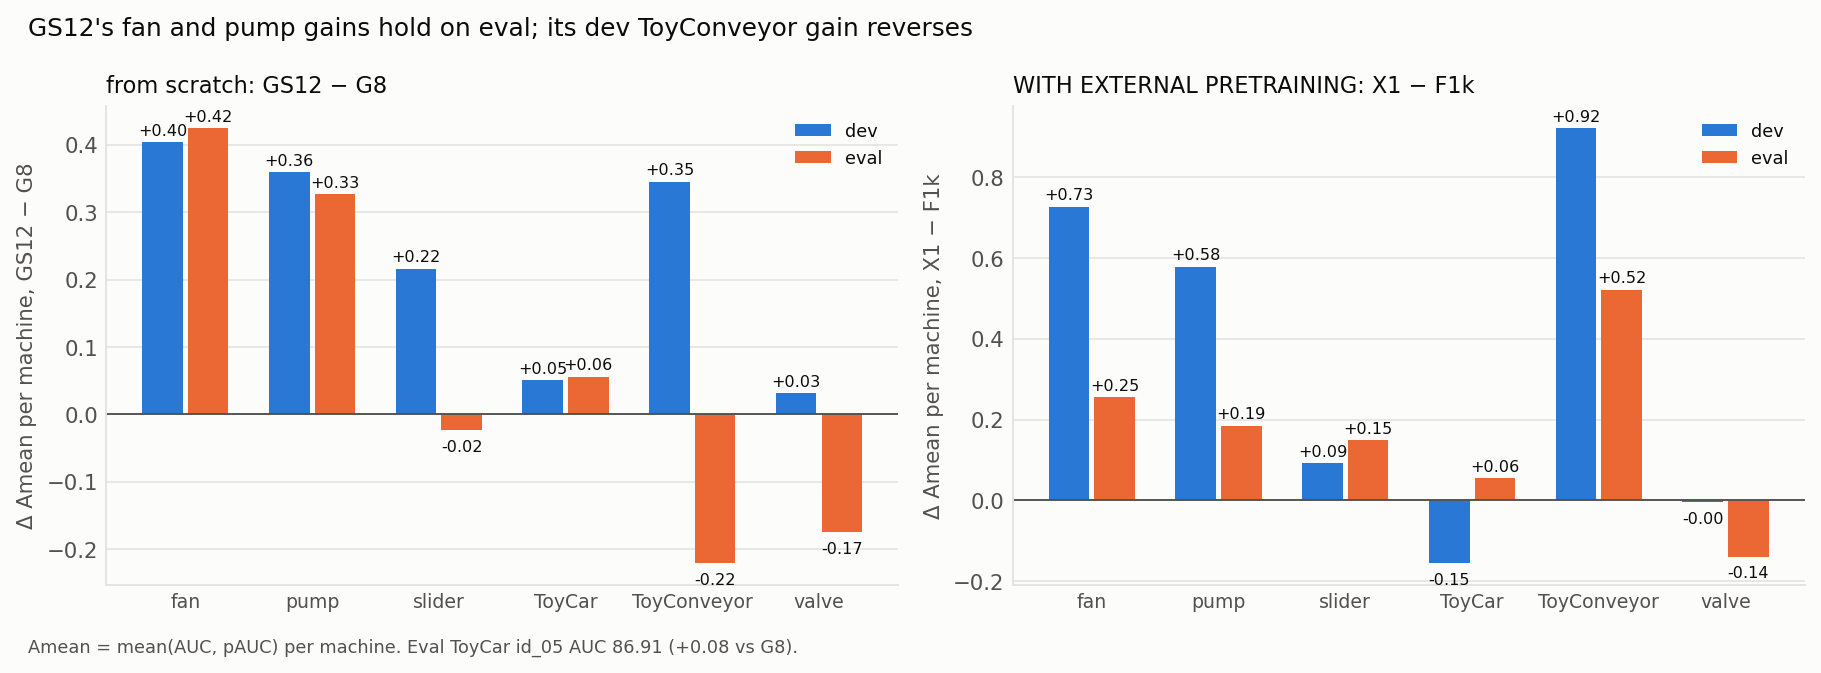
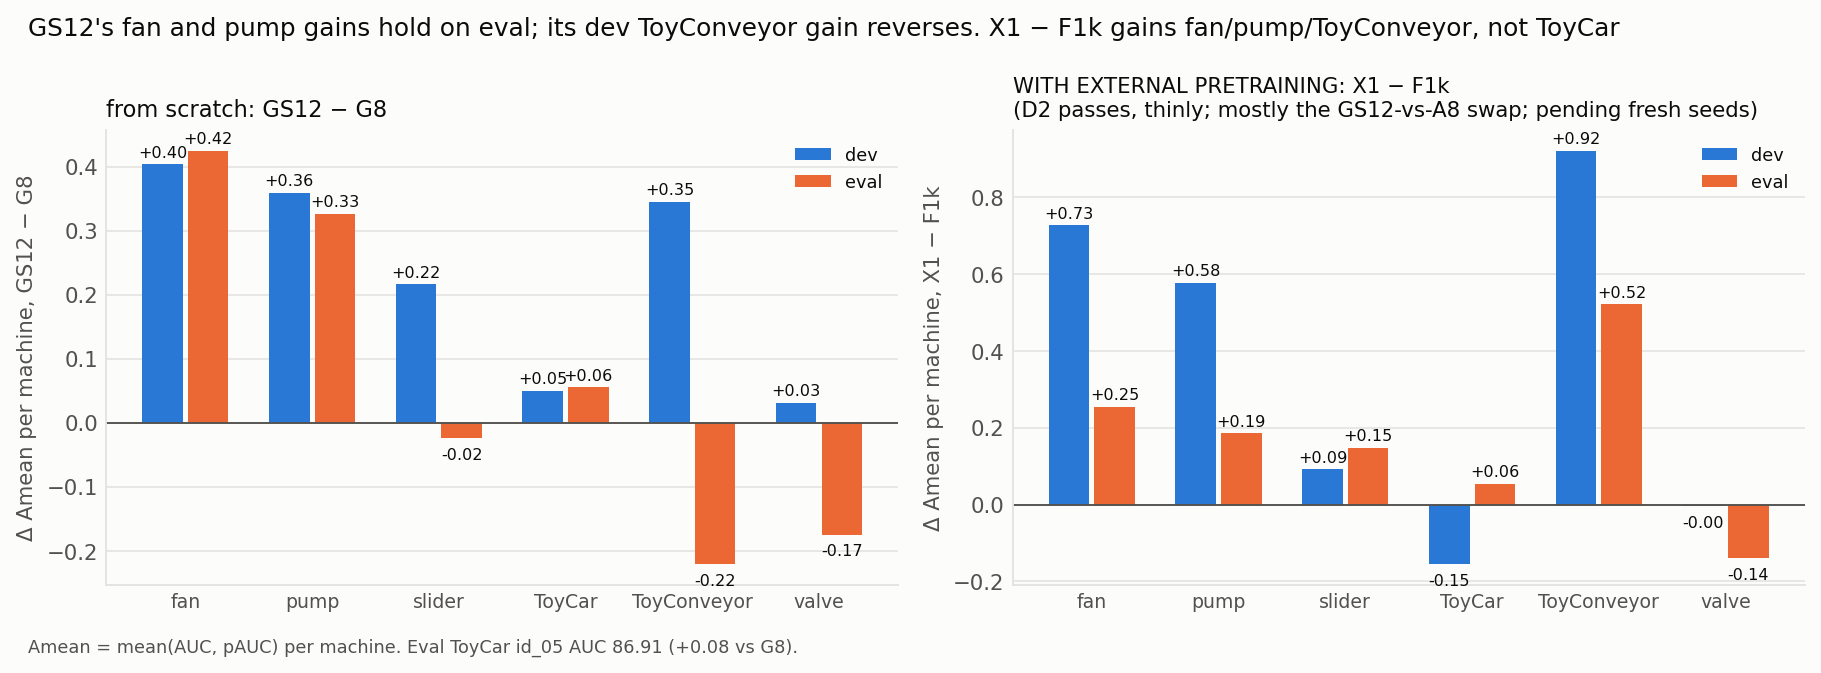
grand-ensemble review fixes: D2 qualified as thin/pending fresh seeds; O1 +0.18/+0.23 notes; F1k 95.25; Δ labels

diff --git a/synthesis/grand-ensemble/make_plots.py b/synthesis/grand-ensemble/make_plots.py
@@ -279,14 +279,16 @@ def fig4_machines():
         ax.set_ylabel(f'Δ Amean per machine, X1 − F1k')
         ax.grid(axis='y')
         ax.legend(fontsize=7.5, loc='upper right')
-        ax.set_title('WITH EXTERNAL PRETRAINING: X1 − F1k', loc='left', fontsize=9.5)
+        ax.set_title('WITH EXTERNAL PRETRAINING: X1 − F1k\n(D2 passes, thinly; mostly the GS12-vs-A8 swap; pending fresh seeds)',
+                     loc='left', fontsize=9)
     sub = ''
     if se:
         dp = se[pick][('ToyCar', 'id_05')] - se['G8'][('ToyCar', 'id_05')]
         sub = f' Eval ToyCar id_05 AUC {se[pick][("ToyCar", "id_05")]:.2f} ({dp:+.2f} vs G8).'
     ttl = f'Where {pick} gains and loses vs G8, dev vs eval'
     if se:
-        ttl = f'{pick}\'s fan and pump gains hold on eval; its dev ToyConveyor gain reverses'
+        ttl = (f'{pick}\'s fan and pump gains hold on eval; its dev ToyConveyor gain reverses. '
+               f'X1 − F1k gains fan/pump/ToyConveyor, not ToyCar')
     fig.suptitle(ttl, x=0.02, ha='left', fontsize=10.5)
     fig.text(0.02, -0.03, 'Amean = mean(AUC, pAUC) per machine.' + sub, fontsize=7.5, color=INK_2)
     fig.tight_layout()

diff --git a/synthesis/grand-ensemble/README.md b/synthesis/grand-ensemble/README.md
@@ -7,10 +7,18 @@
 >     95.21, +0.23 over G8 (O1 optimism +0.07, so the honest margin is +0.16).
 >   - On eval it scores **94.93**: **+0.16 [−0.02, +0.33]** vs A8 and +0.06 [−0.08, +0.21]
 >     vs G8. The CI touches 0, so D1 fails.
-> - **D2, with external pretraining: passes.**
+> - **D2, with external pretraining: passes the pre-registered bar, thinly.**
 >   - X1 = GS12 + 3 BEATs (zK′, w 1.5 each) scores eval **95.42**, **+0.17 [+0.02, +0.32]**
 >     vs F1k, and dev 95.37 (+0.36).
->   - It replaces F1k as the best system *with external pretraining*.
+>   - It replaces F1k as the best system *with external pretraining*, **pending the
+>     fresh-confirm seeds.**
+>   - **[review 2026-11-09]** Four reasons to read it as thin (details under *Decisions*):
+>     - other bootstrap seeds put the lower bound at +0.018 / +0.008, with P(Δ ≤ 0) ≈ 2%;
+>     - the CI covers clip resampling only, not seed or member variance;
+>     - every member's eval had been seen;
+>     - most of the gap is the GS12-vs-A8 swap that D1 calls a tie.
+> - **[review 2026-11-09] F1k's eval Amean is 95.25** (95.2532). Where this README says 95.26,
+>   read 95.25.
 > - **The dev/eval reversal of phase 1 returns.** Dilute pools rank near the bottom on dev and
 >   top on eval: FAST42 95.35 and ALL50 95.28, mostly from eval ToyCar +1.4. They were not dev
 >   picks, so this is secondary (D3).
@@ -32,7 +40,7 @@ So the question is:
 - **X0, from scratch:** which ensemble of the existing pool is best when picked on dev only?
   Does it beat E2′[A8] (the reported best, eval Amean 94.78)?
 - **X1, with external pretraining:** the X0 pick plus the three BEATs nets. Does it beat F1k
-  (eval Amean 95.26)?
+  (eval Amean 95.26 **[95.25]**)?
 
 ## Incumbents (all already seen on dev and eval)
 
@@ -42,7 +50,7 @@ So the question is:
 | E2′[G8] — phase-1 dev pick, tied A8 | 8 `ao_nogain` | 94.97 | 94.87 | `ablation/nogain-ensemble` |
 | GA16 | G8 + A8 | 94.93 | 94.87 | `ablation/nogain-ensemble` |
 | F20g | G8 + plain/gate/eca | 94.32 | 95.02 | `ablation/nogain-ensemble` (not a dev pick) |
-| F1k — with external pretraining | A8 + ΣzK′[B3] | 95.01 | 95.26 | `ablation/beats` (secondary there) |
+| F1k — with external pretraining | A8 + ΣzK′[B3] | 95.01 | 95.26 **[95.25]** | `ablation/beats` (secondary there) |
 
 ## P0: reproduction (done before anything new)
 
@@ -221,7 +229,7 @@ Source: `scores/scorecard_dev.txt`, `systems_dev.csv`, `x1_dev.csv`, `selection_
 `bootstrap_dev.json` and `type_corr_dev.csv`. Eval was not computed.
 
 ```
-dev, E2′      n   AUC   pAUC  mAUC  Amean | fan   pump  slider ToyCar ToyConv valve  Δ vs G8 [paired 95%]
+dev, E2′      n   AUC   pAUC  mAUC  Amean | fan   pump  slider ToyCar ToyConv valve  Δ vs G8: bootstrap mean [paired 95%]
 G8            8  97.19 92.76 94.12 94.97 | 99.04 96.13 99.73 98.37 89.88 99.96
 GA16         16  97.17 92.68 94.18 94.93 | 98.98 96.08 99.74 98.48 89.79 99.96   −0.05 [−0.10, +0.01]
 GS12  PICK   12  97.38 93.03 94.71 95.21 | 99.21 96.59 99.80 98.41 90.33 99.97   +0.24 [+0.13, +0.36]
@@ -235,6 +243,11 @@ GREEDY       14  97.42 93.06 94.75 95.24 | 99.19 96.58 99.83 98.37 90.56 99.98  
 A8 (bar)      8  97.05 92.48 94.10 94.77 | 98.82 96.00 99.74 98.54 89.26 99.95   −0.20
 paper, one model 95.71 90.23 91.23       |       96.25             96.55 83.56          (per machine: AUC)
 ```
+
+**[review 2026-11-09]** The Δ column is the **bootstrap mean** over 2000 resamples, not the point
+estimate. GS12 − G8 has a point estimate of **+0.23** (95.2061 − 94.9717 = 0.2343), which is the
+figure the text uses. The column shows +0.24 (bootstrap mean 0.236). The other rows differ from
+their point estimates by ≤ 0.01.
 
 - **GREEDY** took G, then S (+0.23), then TS (+0.04), and stopped (+G would gain −0.01). That is
   G + S + TS at equal block weight: per-member weights G 1/8, S 1/4, TS 1/2.
@@ -251,7 +264,12 @@ paper, one model 95.71 90.23 91.23       |       96.25             96.55 83.56  
   - **O1** (20 clip split-halves): the half-A pick leads G8 by +0.28 on its own half and by
     +0.21 on the other. Optimism is +0.07, so the honest dev margin is **+0.16**. The half-A
     pick was GS12 in 12 of 20 splits and GREEDY in 8. GREEDY on half A shrinks most (+0.33 →
-    +0.18 on average); GS12 barely shrinks (+0.25 → +0.22).
+    +0.18 on average); GS12 barely shrinks (+0.25 → +0.22 **[+0.23]**).
+    - **[review 2026-11-09]** Two corrections, both from `selection_dev.json` O1 splits:
+      - GREEDY's held-out value read "+0.17" when committed at `ee37d92`. Commit `9b842f6`
+        changed it to +0.18 after eval was scored, without a note. **+0.18 is correct** (mean
+        0.182 over its 8 splits). Only the wording changed; no number was recomputed.
+      - GS12's held-out mean is 0.226, so **+0.23**, as `fig3_selection.png` shows, not +0.22.
   - **O2** (seed halves): picking on H1 gives GS12, +0.24 on H1 and +0.31 rebuilt on H2.
     Picking on H2 gives GREEDY = G + S + TS + **PM**, +0.42 on H2 and +0.21 rebuilt on H1. The
     S effect replicates across seed halves; the greedy extras do not.
@@ -291,7 +309,7 @@ Seen single-member S1′ on eval, 4 paired seeds (`scores/members.csv`):
 - by machine: fan +0.2, pump +0.3, slider −0.7, ToyCar +0.15, ToyConveyor 0.0, valve −0.6.
 
 Eval references: G8 94.87, with pump 98.31, ToyCar 95.96 (id_05 86.83) and ToyConveyor 89.69.
-A8 is 94.78, and F1k is 95.26.
+A8 is 94.78, and F1k is 95.26 **[95.25]**.
 
 - **B1, GS12 on eval:**
   - Amean 94.93 [94.70, 95.15].
@@ -319,7 +337,7 @@ Source: `scores/scorecard_eval.txt`, `systems_eval.csv`, `x1_eval.csv`, `greedy_
 and unmodified.
 
 ```
-eval, E2′     n   AUC   pAUC  mAUC  Amean | fan   pump  slider ToyCar ToyConv valve  Δ vs A8 [paired 95%]   dev
+eval, E2′     n   AUC   pAUC  mAUC  Amean | fan   pump  slider ToyCar ToyConv valve  Δ vs A8: point [paired 95%]   dev
 G8            8  96.96 92.77 93.35 94.87 | 99.64 98.31 99.77 95.96 89.69 98.40   +0.09 [−0.05, +0.23]   94.97
 GA16         16  96.97 92.78 93.39 94.87 | 99.68 98.37 99.75 96.03 89.49 98.46   +0.10 [+0.02, +0.17]   94.93
 GS12  PICK   12  97.00 92.86 93.31 94.93 | 99.80 98.47 99.76 95.98 89.64 98.36   +0.16 [−0.02, +0.33]   95.21
@@ -357,6 +375,19 @@ F1k (bar)        A8 + B3 w 1       97.21 93.30 94.20 95.25 | 97.72  88.99       
   - **It is the new best system with external pretraining.** It needs fresh-seed confirmation
     like every phase-2 system. Its margin is small, and the lower CI bound sits at +0.02.
   - BEATs adds +0.49 [+0.36, +0.64] to GS12 on eval, mostly ToyCar (95.98 → 97.67).
+  - **[review 2026-11-09] Read D2 as "passes the pre-registered bar, thinly; pending
+    fresh-confirm".**
+    - *Thin.* An independent rerun of the bootstrap with rng 1 and rng 2 gives lower bounds
+      +0.018 and +0.008. P(Δ ≤ 0) is about 2%.
+    - *Clip noise only.* The CI resamples test clips. It does not cover seed or member
+      variance, which phase 1 puts at about 1 point of single-model eval AUC.
+    - *Seen members.* Every member's single-model eval score had been seen in phase 1. Only
+      the combination was new.
+    - *Mostly inherited from D1.* X1 − F1k (+0.17) is largely the GS12-vs-A8 swap in the
+      from-scratch block (+0.16), which D1 calls a tie. The BEATs block is the same in both.
+      Per machine on eval (Amean), X1 − F1k is fan +0.25, pump +0.19, slider +0.15,
+      **ToyCar +0.06**, ToyConveyor +0.52 and valve −0.14. So the X1 gain over F1k is fan,
+      pump and ToyConveyor, not BEATs' ToyCar.
 - **D4: no flag.** The honest dev margin over G8 is +0.16 > 0.
 - **D3, secondary (no claims; choosing among these on eval would be test-set selection):**
   - FAST42 has the highest eval Amean of all from-scratch candidates: 95.35, +0.57 vs A8. It
